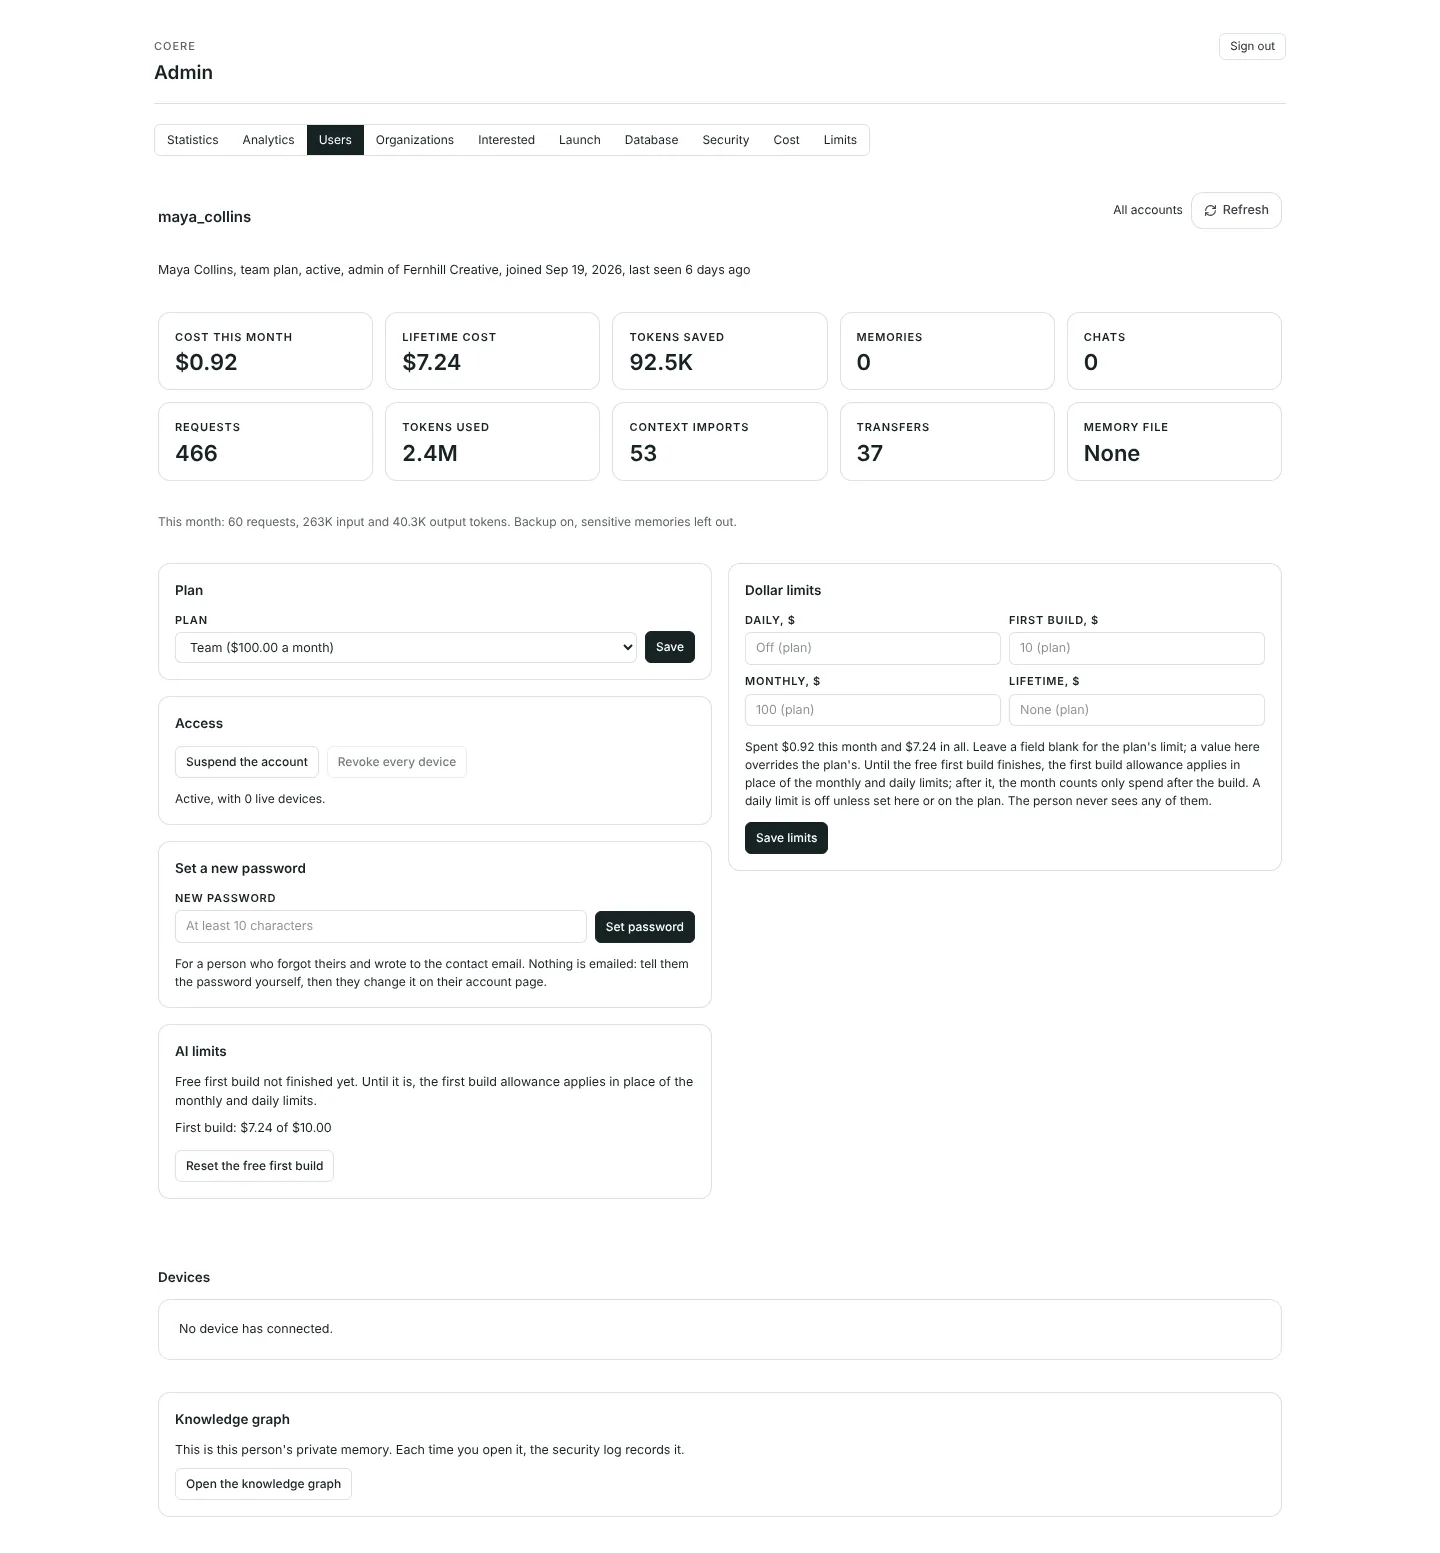
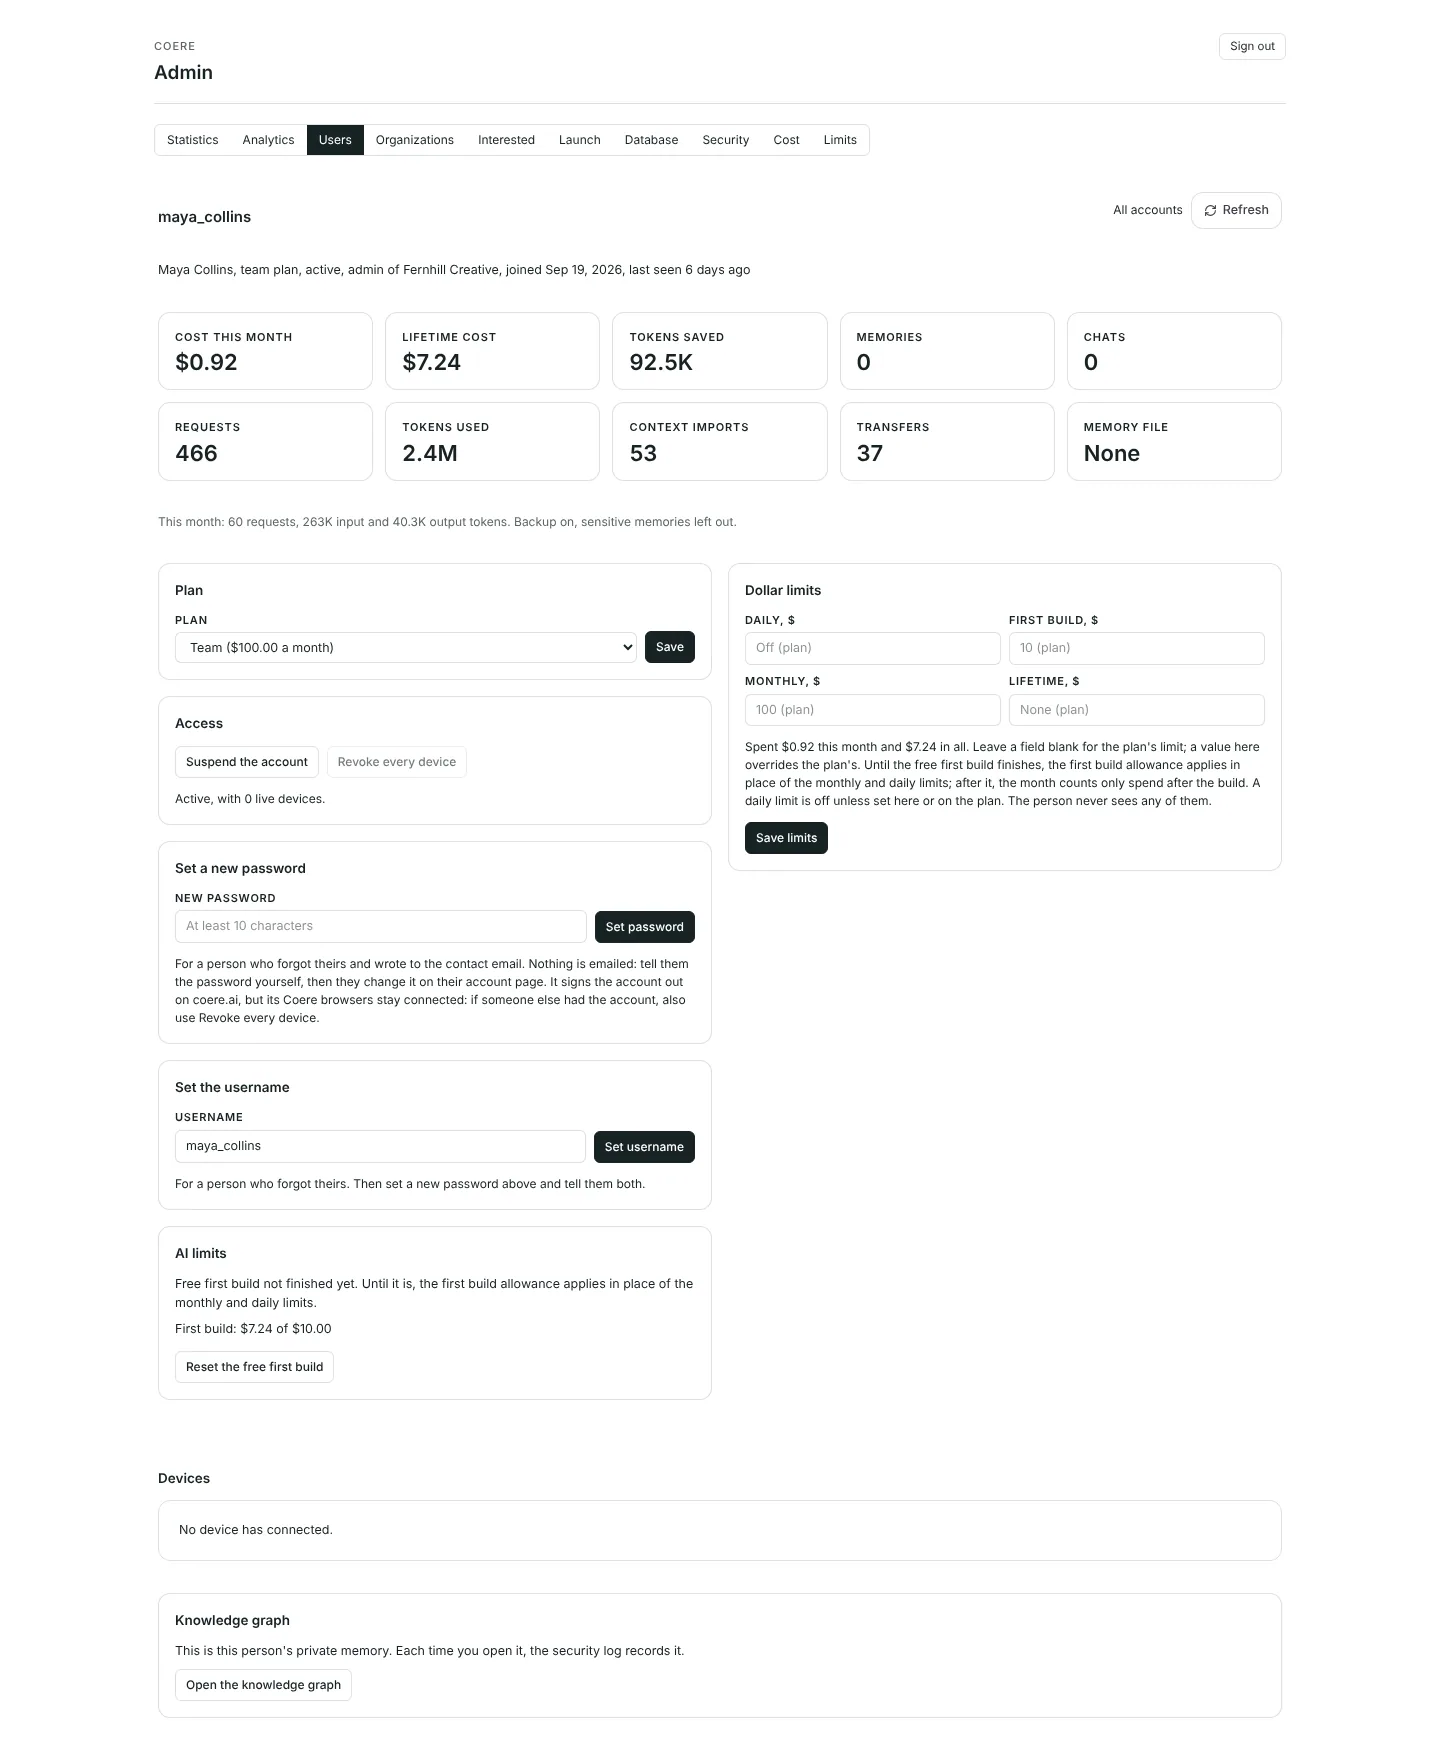
Reshoot account, privacy and the admin account page
Claude-Session: https://claude.ai/code/session_01Ur6uqNCXa3ecJ23BnM9D9o

diff --git a/docs/screenshots/admin/README.md b/docs/screenshots/admin/README.md
@@ -14,7 +14,7 @@ Taken by `scripts/screenshots/run.mjs`; the full pages are linked.
 | | |
 |---|---|
 | <img src="analytics.webp" alt="Site analytics: views, visitors, time and conversion, traffic by day, what people read, every page, a world map, countries, regions, cities, devices and where they came from" /><br /><sub>Analytics: the site's visits, pages and sources</sub> | <img src="users.webp" alt="Users: accounts, suspended, live devices and cost this month, sign ups by day, and the list of accounts by username" /><br /><sub>Users: every account (the first screens of the list)</sub> |
-| <img src="user.webp" alt="One account, maya_collins: plan, totals, dollar limits, access, Set a new password, AI limits, devices and the knowledge graph button" /><br /><sub>One account</sub> | <img src="user-graph.webp" alt="The same account with its knowledge graph opened" /><br /><sub>Its knowledge graph, opened by a click and logged</sub> |
+| <img src="user.webp" alt="One account, maya_collins: plan, totals, dollar limits, access, Set a new password, Set the username, AI limits, devices and the knowledge graph button" /><br /><sub>One account</sub> | <img src="user-graph.webp" alt="The same account with its knowledge graph opened" /><br /><sub>Its knowledge graph, opened by a click and logged</sub> |
 | <img src="organizations.webp" alt="Organizations: totals, Create an organization, and every organization with members, plan, tokens saved, memories, chats and cost" /><br /><sub>Organizations, and the only place one is made</sub> | <img src="organization.webp" alt="Fernhill Creative: members with roles, access and sharing, add a member, settings with the shared sections, open invites and the graph button" /><br /><sub>One organization</sub> |
 | <img src="organization-graph.webp" alt="Fernhill Creative's shared knowledge graph opened: the Work section with each memory and the member who brought it" /><br /><sub>Its shared graph, with who brought each memory</sub> | <img src="interested.webp" alt="Interested: the developer waitlist, Coere Connect and Coere for Teams, each by day, with CSV downloads" /><br /><sub>Interested: the waitlist and both interest lists</sub> |
 | <img src="launch.webp" alt="Launch countdown: Coere Connect and Coere for Teams, each saying where it shows, with a small preview of the title and countdown, the launch moment and Show the countdown" /><br /><sub>Launch: the countdowns on /install and /try-teams</sub> | <img src="limits.webp" alt="Limits: a daily limit for every plan, accounts with their own limits, and each plan's daily, first build, monthly and lifetime limits" /><br /><sub>Limits</sub> |

diff --git a/docs/screenshots/site/README.md b/docs/screenshots/site/README.md
@@ -66,4 +66,4 @@ The whole page: [home.webp](home.webp).
 |---|---|
 | <img src="sign-in.webp" alt="Sign in to Coere with a username and a password, maya_collins typed, and Forgot your password? Contact us under the card" /><br /><sub>Sign in: a username and a password</sub> | <img src="sign-up.webp" alt="Create your Coere account, with a username, a password and the password again" /><br /><sub>Sign up: no email asked for</sub> |
 | <img src="connect.webp" alt="Connect Coere to your account, signed in as maya_collins, with Connect Coere" /><br /><sub>/connect, where the extension gets its device token</sub> | <img src="phone-sign-in.webp" width="195" alt="Sign in at phone width" /><br /><sub>Sign in at 390 wide</sub> |
-| <img src="account.webp" alt="Your account, signed in as maya_collins: Profile with her name and username, Password, Sign out, Browsers, the memory backup switches, Fernhill Creative's invite form and Make admin, and Delete account asking to sign in again first" /><br /><sub>/account: what a device token may not do, from any browser</sub> | |
+| <img src="account.webp" alt="Your account, signed in as maya_collins: Profile with her name and username behind her current password, Password asking for the current one first, Sign out, Browsers, the memory backup switches, Fernhill Creative's invite form and Make admin, and Delete account asking to sign in again first" /><br /><sub>/account: what a device token may not do, from any browser</sub> | |
